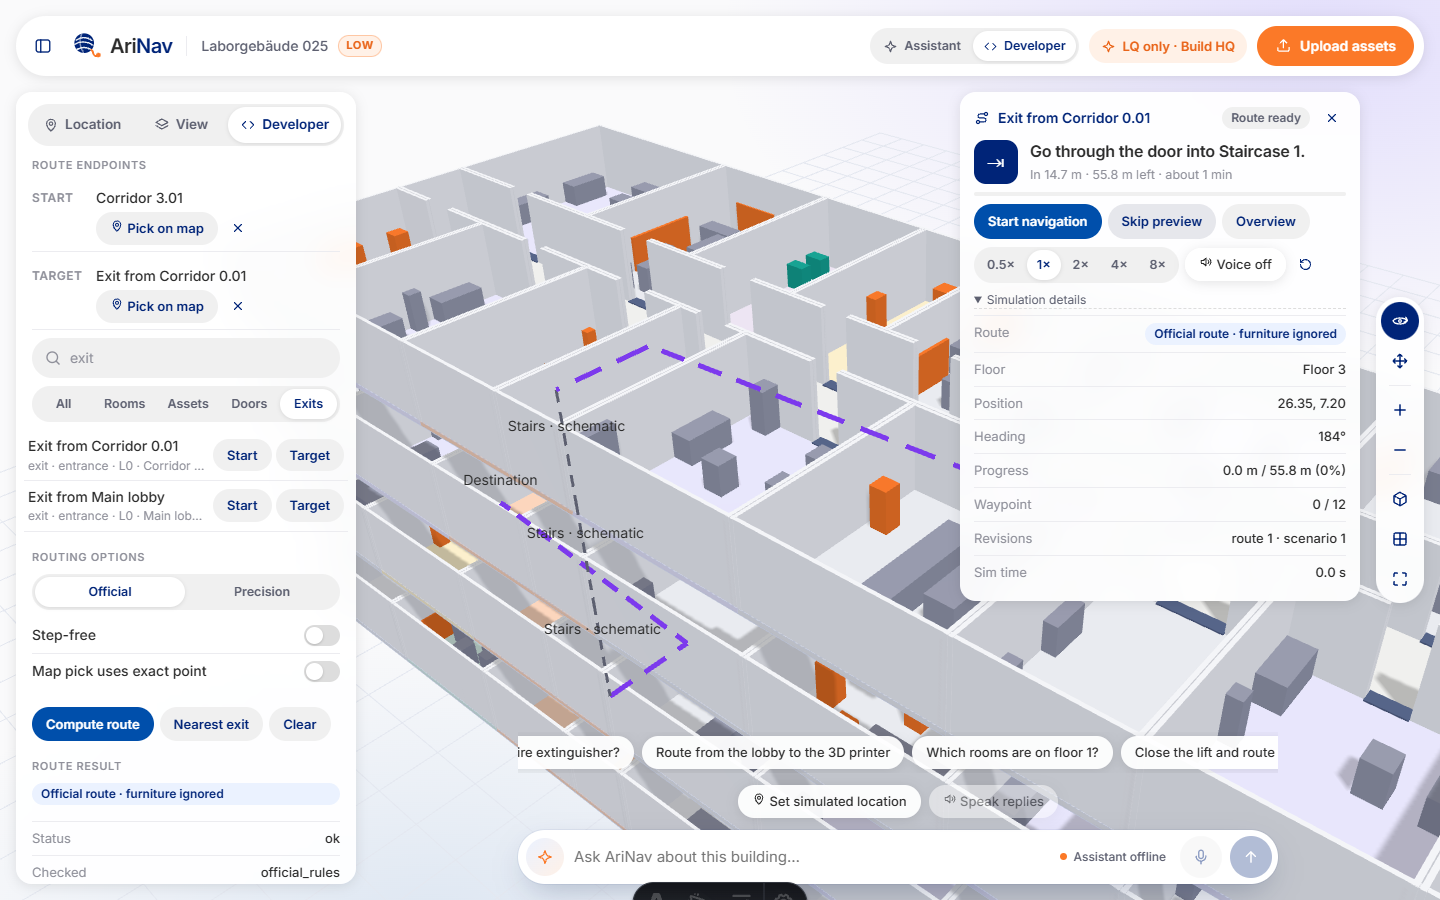
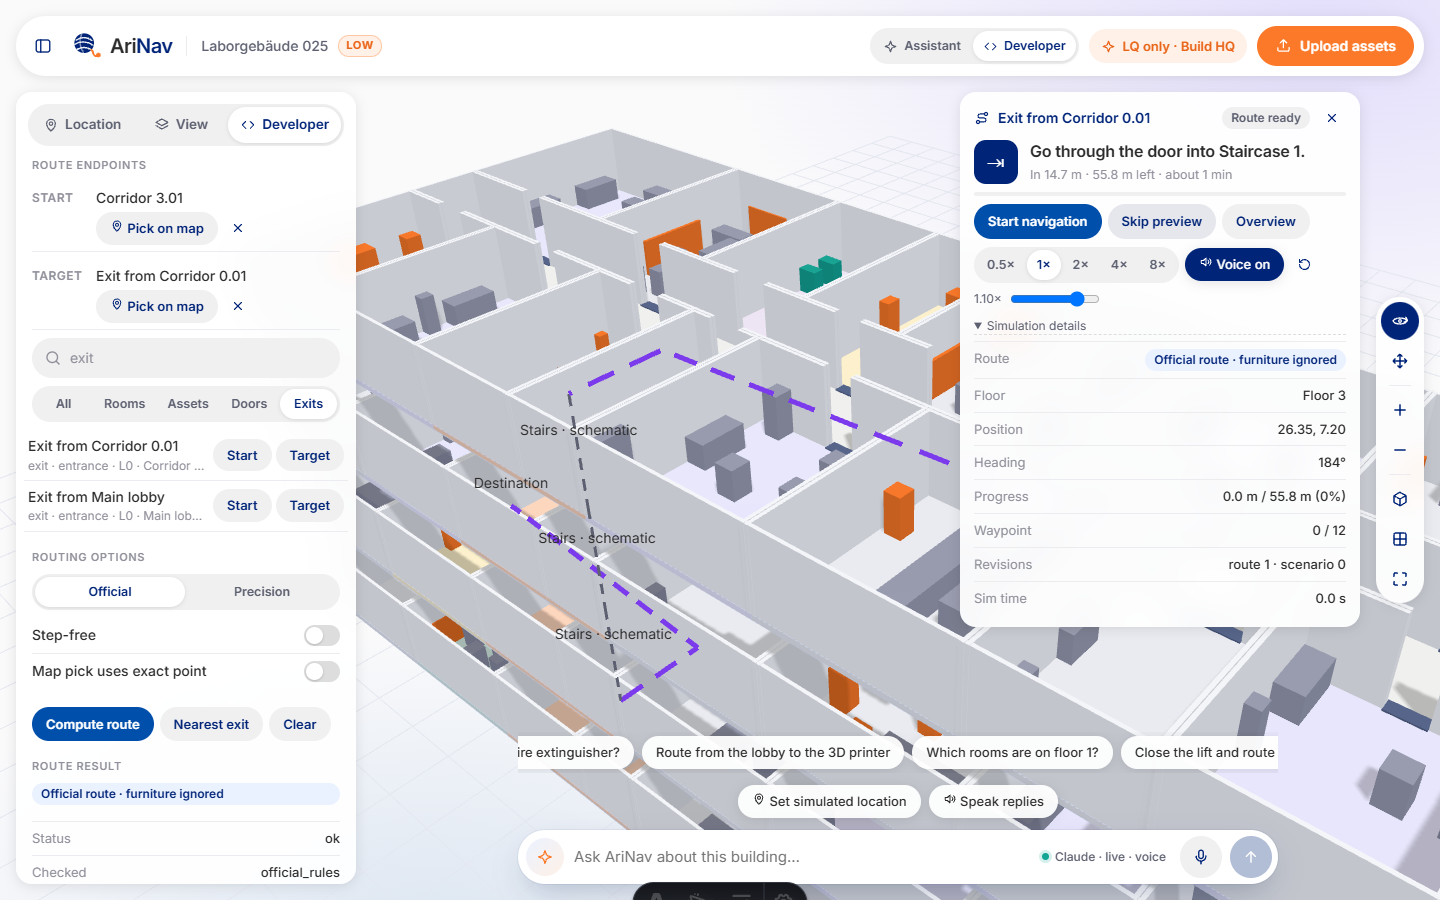
Phase B: walked-route overlay, hint priority, guide and final evidence
- scene: the part of the route already walked turns grey
- voice: floor changes, exit and arrival are not crowded out by later
  turn/door hints at high walking speed (priority); live check: stairs
  hint spoken, 7 hints at 1.1x, no overlap
- docs/PHASE_B_GUIDE.md: start, usage, what was built, tests, limits
- reports: kit 1.1.0 harness 655/655, 1338/1338, 553/553, 239/239;
  browser acceptance 14/14, Phase A browser suite 10/10

diff --git a/frontend/src/components/arinav/scene.ts b/frontend/src/components/arinav/scene.ts
@@ -83,6 +83,8 @@ export interface WalkerPose {
   floorId: string;
   position: Point;
   headingDeg: number;
+  /** Distance along the route (m): the part behind is drawn as done. */
+  distanceM?: number;
 }
 
 interface Preview {
@@ -201,6 +203,15 @@ export class BuildingScene {
   // Guidance: the walker figure, camera follow and a skippable route preview.
   private readonly walkerGroup = new THREE.Group();
   private walkerPose: WalkerPose | null = null;
+  private readonly doneGroup = new THREE.Group();
+  private doneDrawnAt = -1;
+  private readonly doneMat = new LineMaterial({
+    color: '#b8bcc8',
+    linewidth: 6,
+    depthTest: false,
+    transparent: true,
+    opacity: 0.95,
+  });
   private follow = false;
   private preview: Preview | null = null;
   private readonly routeMats = {
@@ -291,6 +302,7 @@ export class BuildingScene {
     this.scene.add(this.routeGroup);
     this.buildWalker();
     this.scene.add(this.walkerGroup);
+    this.scene.add(this.doneGroup);
 
     this.pin = makeLabel('', 'viewer__pin');
     this.pin.center.set(0.5, 1);
@@ -334,6 +346,8 @@ export class BuildingScene {
     this.clearRouteObjects();
     for (const m of Object.values(this.routeMats)) m.dispose();
     for (const m of Object.values(this.markerMats)) m.dispose();
+    this.clearDone();
+    this.doneMat.dispose();
     for (const m of [this.closedMat, this.diagnosisMat, this.highlightMat]) m.dispose();
     this.markerGeo.dispose();
     this.doorGeo.dispose();
@@ -412,6 +426,7 @@ export class BuildingScene {
 
   /** Draw a route (or clear it with null); `fit` flies the camera to it. */
   setRoute(route: RouteResponse | null, fit = false) {
+    this.clearDone();
     this.route = route;
     this.buildRoute();
     if (fit && route && this.routeGroup.children.length) {
@@ -433,7 +448,67 @@ export class BuildingScene {
       // Building frame is counter-clockwise from +x; toVec maps building +y to scene -z.
       this.walkerGroup.rotation.y = THREE.MathUtils.degToRad(pose.headingDeg);
     }
+    this.drawDone(pose?.distanceM ?? null);
     this.needsRender = true;
+  }
+
+  /** Grey out the part of the route already walked (rebuilt every half metre). */
+  private drawDone(distance: number | null) {
+    if (distance === null || !this.route?.waypoints?.length) {
+      if (this.doneDrawnAt !== -1) this.clearDone();
+      return;
+    }
+    if (this.doneDrawnAt >= 0 && Math.abs(distance - this.doneDrawnAt) < 0.5) return;
+    this.clearDone();
+    this.doneDrawnAt = distance;
+    const floorView = new Map(this.floors.map((fv) => [fv.floor.id, fv]));
+    const focus = this.settings.floor;
+    const y = (floorId: string) => {
+      const fv = floorView.get(floorId);
+      return (fv?.floor.elevation_m ?? 0) + this.floorOffset(fv) + ROUTE_LIFT + 0.02;
+    };
+    const wps = this.route.waypoints;
+    let run: THREE.Vector3[] = [];
+    let floor = wps[0].floor_id;
+    const flush = () => {
+      const fv = floorView.get(floor);
+      if (run.length >= 2 && fv && (focus === 'all' || fv.floor.level <= focus)) {
+        const geo = new LineGeometry();
+        geo.setPositions(run.flatMap((v) => [v.x, v.y, v.z]));
+        const line = new Line2(geo, this.doneMat);
+        line.renderOrder = 12;
+        line.raycast = () => {};
+        this.doneGroup.add(line);
+      }
+      run = [];
+    };
+    for (let i = 0; i < wps.length; i++) {
+      const w = wps[i];
+      if (w.floor_id !== floor) {
+        flush();
+        floor = w.floor_id;
+      }
+      if (w.distance_m <= distance) {
+        run.push(toVec(w.position, y(w.floor_id)));
+        continue;
+      }
+      const prev = wps[i - 1];
+      if (prev && prev.floor_id === w.floor_id && w.distance_m > prev.distance_m) {
+        const t = (distance - prev.distance_m) / (w.distance_m - prev.distance_m);
+        const a = toVec(prev.position, y(w.floor_id));
+        run.push(a.lerp(toVec(w.position, y(w.floor_id)), Math.max(0, Math.min(1, t))));
+      }
+      break;
+    }
+    flush();
+  }
+
+  private clearDone() {
+    for (const child of [...this.doneGroup.children]) {
+      (child as Line2).geometry.dispose();
+      this.doneGroup.remove(child);
+    }
+    this.doneDrawnAt = -1;
   }
 
   setFollow(on: boolean) {
@@ -1397,6 +1472,7 @@ export class BuildingScene {
     this.renderer.setSize(w, h);
     this.labelRenderer.setSize(w, h);
     for (const m of Object.values(this.routeMats)) m.resolution.set(w, h);
+    this.doneMat.resolution.set(w, h);
     this.needsRender = true;
   }
 

diff --git a/frontend/src/lib/guidanceVoice.ts b/frontend/src/lib/guidanceVoice.ts
@@ -46,6 +46,7 @@ export class GuidanceVoice {
   private readonly onChange?: (state: GuidanceVoiceState) => void;
   private current: AbortController | null = null;
   private pending: string | null = null;
+  private pendingPriority = 0;
   private suspended = false;
   private readonly keys = new Set<string>();
   private readonly cache = new Map<string, { pcm: string; rate: number }>();
@@ -73,15 +74,23 @@ export class GuidanceVoice {
    * becomes the single pending utterance (replacing an older pending one). Muted: remembered as
    * `last` (for repeat) but silent. Suspended: ignored entirely (the key is not consumed).
    */
-  say(key: string, text: string): void {
+  /**
+   * `priority`: a pending hint is replaced only by one of equal or higher priority, so a floor
+   * change or the arrival is not crowded out by a later turn or door hint at high speed.
+   */
+  say(key: string, text: string, priority = 0): void {
     const clean = text.trim();
     if (this.suspended || !clean || this.keys.has(key)) return;
     this.keys.add(key);
     if (this.keys.size > MAX_KEYS) this.keys.delete(this.keys.values().next().value as string);
     this.update({ last: clean });
     if (this.snapshot.muted) return;
-    if (this.current) this.pending = clean;
-    else this.start(clean);
+    if (this.current) {
+      if (this.pending === null || priority >= this.pendingPriority) {
+        this.pending = clean;
+        this.pendingPriority = priority;
+      }
+    } else this.start(clean);
   }
 
   /** Speaks the last text again right away (interrupting); does nothing when muted/suspended. */

diff --git a/frontend/src/components/arinav/useGuidance.ts b/frontend/src/components/arinav/useGuidance.ts
@@ -24,7 +24,7 @@ export interface PoseStore {
 }
 
 export interface GuidanceVoicePort {
-  say(key: string, text: string): void;
+  say(key: string, text: string, priority?: number): void;
   cancel(): void;
 }
 
@@ -116,7 +116,7 @@ export function useGuidance(args: {
       const p = snap.progress;
       pose.set(
         p && snap.status !== 'idle'
-          ? { floorId: p.floor_id, position: p.position, headingDeg: p.heading_deg }
+          ? { floorId: p.floor_id, position: p.position, headingDeg: p.heading_deg, distanceM: p.distance_m }
           : null,
       );
       const now = performance.now();
@@ -131,7 +131,11 @@ export function useGuidance(args: {
   const handle = useCallback(
     (events: SimEvent[]) => {
       for (const e of events) {
-        if (e.type === 'instruction') latest.current.voice?.say(e.key, e.instruction.text);
+        if (e.type === 'instruction') {
+          const k = e.instruction.kind;
+          const priority = k === 'arrive' ? 3 : k === 'stairs' || k === 'lift' || k === 'exit' ? 2 : 0;
+          latest.current.voice?.say(e.key, e.instruction.text, priority);
+        }
       }
       if (events.length) publish(true);
     },

diff --git a/frontend/src/lib/guidanceVoice.test.ts b/frontend/src/lib/guidanceVoice.test.ts
@@ -299,3 +299,29 @@ describe('GuidanceVoice', () => {
     expect(states[1]).toMatchObject({ speed: 1, muted: true });
   });
 });
+
+describe('GuidanceVoice priority', () => {
+  it('keeps a pending floor change when a lower-priority hint arrives later', async () => {
+    const said: string[] = [];
+    let finish: () => void = () => {};
+    const port = {
+      synthesize: async (text: string) => ({ pcm: text, rate: 16000 }),
+      play: (pcm: string) => {
+        said.push(pcm);
+        return new Promise<void>((r) => (finish = r));
+      },
+      stop: () => {},
+    };
+    const voice = new GuidanceVoice(port);
+    voice.say('1', 'Go through the door.');
+    await Promise.resolve();
+    await Promise.resolve();
+    voice.say('2', 'Take the stairs down to Ground floor.', 2);
+    voice.say('3', 'Turn left.', 0);
+    finish();
+    await new Promise((r) => setTimeout(r, 0));
+    await new Promise((r) => setTimeout(r, 0));
+    expect(said).toContain('Take the stairs down to Ground floor.');
+    expect(said).not.toContain('Turn left.');
+  });
+});

diff --git a/docs/PHASE_B_GUIDE.md b/docs/PHASE_B_GUIDE.md
@@ -1,0 +1,97 @@
+# AriNav Phase B — interactive 3D navigation
+
+Branch `noah/phase-b-navigation` (from team `main` 6884927). Not merged into `main`.
+
+## Start
+
+```powershell
+# offline (no AI, no voice): everything except chat and spoken hints
+powershell -File scripts/windows/Start-AriNav.ps1 -DatasetsDir <folder with building datasets>
+# live: Claude assistant + ElevenLabs voice (keys registered once with Register-ApiKey.ps1)
+powershell -File scripts/windows/Start-AriNav.ps1 -Live -DatasetsDir <folder>
+```
+
+Open http://localhost:4321 and pick a building under **Location → Building**. Docker/native start
+as in `README.md` also works (keys in `backend/.env`).
+
+## How to navigate
+
+1. **Find the destination** — ask the assistant ("I'm in Office 1.04, take me to the nearest exit")
+   or, in **Developer** mode, set start and target by search or map pick and press *Compute route*.
+2. **See the whole route** — it is drawn on the 3D map (start, destination, doors, stairs/lifts;
+   floor changes without real 3D geometry are labelled *schematic*). The navigation card (top
+   right) shows the destination and the next instruction.
+3. Optional: **Preview route** flies the camera along the route; your position does not change.
+   *Skip preview* stops it at any time.
+4. **Start navigation** — a person walks along the backend's waypoints. Controls: *Pause*,
+   *Resume*, *Stop*, *Overview* (whole building), *Recenter* (follow the person), walking speed
+   0.5×–8×. The floor the person is on is focused automatically; the walked part of the route turns
+   grey.
+5. **Arrive** — the person stops at the actual target point (an exit route ends at the exit door).
+
+**Voice:** short hints at doors, turns, floor changes and arrival (ElevenLabs, default 1.10×).
+*Voice on/off*, *Repeat* and a speed slider are on the card. Hints never overlap; floor changes and
+arrival are not crowded out at high speed; route changes cancel stale audio; push-to-talk stops all
+playback first. If voice fails, navigation continues and the card says so.
+
+**Closures while walking:** when the shared scenario changes (a confirmed closure, the developer
+panel, another tab, the team's navgraph agent), the person stops, the route is recomputed from the
+exact current position and walking continues only with a valid route. If nothing is reachable the
+person stays put and the card explains why (names, no ids). The scenario is polled every 2 s while
+navigating.
+
+**User vs. developer view:** both show the same simulation (same position and scenario). The
+developer view adds floor, position, heading, progress, waypoint, route/scenario revisions and
+simulation time.
+
+**HQ models:** opening a building never starts the paid pipeline (Developer → *HQ model* →
+auto-build is off by default). A model stored under the building id
+(`backend/data/workspace/locations/<building_id>/3d/model.glb`, gitignored) loads directly; the
+*LQ only · Build HQ* chip or *Rebuild* regenerate it on request. Scenario changes never regenerate
+the model; closures are painted on it.
+
+## What was built
+
+| Part | Where |
+|---|---|
+| Instructions + deterministic walker (`GuidanceSim`: position = route at integrated sim time) | `frontend/src/lib/simulation.ts` |
+| Guidance hook (animation loop, pose store, reroute with stale-answer guard, dev test clock) | `frontend/src/components/arinav/useGuidance.ts` |
+| Navigation card (user/developer view) | `GuidancePanel.tsx`, styles in `arinav-phase-a.css` |
+| Walker figure, follow camera, overview, route preview, walked-route overlay | `scene.ts`, `Viewer3D.tsx` |
+| Spoken hints (queue, priority, mute, repeat, cache) + `POST /api/assistant/speak` | `lib/guidanceVoice.ts`, `lib/voice.ts`, `backend/app/api/routes/assistant.py` |
+| Reroute from the exact position (`exact_start`, official routes only, opt-in) | `backend/app/navigation/service.py` |
+| HQ model loaded from storage without a run record | `usePipeline.ts` |
+
+Phase A fixes (B0) for the QA findings D1–D3, N01–N03, U1, U2 are in commit a5de921.
+
+## Tests (25.10.2026, this branch)
+
+| What | Result |
+|---|---|
+| Backend `uv run pytest` | 349 passed, 4 skipped |
+| Kit 1.1.0 harness `scripts/nav_benchmark.py` | see `docs/reports/nav_benchmark_1_1_0.md` (655/655, 1338/1338, 553/553, 239/239) |
+| Frontend `npm test` / `npm run lint` / build | 72 tests, 0 errors |
+| QA scripts of the independent review, rerun on this code | dialog audit 20/20, N01–N03 repros fixed |
+| Browser acceptance `scripts/e2e/guidance_e2e.mjs` (controlled sim clock) | 14/14 → `docs/reports/browser-b/guidance_e2e.json` |
+| Phase A browser suite `scripts/e2e/browser_e2e.mjs` | 10/10 |
+| Live: assistant → route → navigation → ElevenLabs hints | arrived at the exit door; 7 hints at 1.1×, no overlap, no errors |
+
+The browser checks cover: preview keeps the position; route/endpoints equal the backend's; exit
+routes end at the exit door; the precision walker never leaves the checked polyline; pause/resume
+without jumps; closures reroute from the exact position; no route stops the walker; floor order;
+official vs. precision stay distinguishable; audio failures do not block; missing HQ does not block;
+user and developer view show the same position; two sessions keep separate positions; a cached HQ
+model loads without a pipeline start. Stale async answers are covered by `useGuidance.test.ts`.
+
+## Limits
+
+- The walker follows route waypoints at constant speed; vertical moves take their official cost
+  equivalent (a lift ride counts 15 m + height). No real indoor positioning yet.
+- Official routes ignore furniture by kit rule; only precision routes are obstacle-checked.
+- `exact_start` re-walks only the first leg inside the current room; the reported official cost
+  remains the kit's value from the room.
+- The HQ model is baked: navgraph asset edits update the LQ model and all routers, the HQ GLB keeps
+  the old furniture until *Rebuild*.
+- The team pipeline still skips an explicitly started run whose raw input is unchanged (SHA-256);
+  opening and loading never hash.
+- Real microphone test by a person is still open.

diff --git a/README.md b/README.md
@@ -87,7 +87,7 @@ The frontend is **AriNav** (after Ariadne and her thread), one React island on `
 - **Location** (left panel): building picker, floor focus (higher floors hidden, lower ones ghosted), search over rooms and assets, room list.
 - **View** (left panel): camera presets, layer toggles, explode floors, wall height, room colours, shadows, grid.
 - **Chat** (bottom): in *Assistant* mode the Claude building assistant with push-to-talk voice (`/api/assistant`, routes drawn on the map, changes only after *Confirm*); without the assistant API it talks to the agent via `POST /api/chat` `{ message, thread_id? }` (one-node LangGraph agent with per-thread memory, returns `{ reply, thread_id }`).
-- **Assistant / Developer** (top bar): *Developer* adds manual routing (official kit 1.1.0 or precision), nearest exit, scenario closures and the kit examples — usable without any AI key. Details, start script and tests: [`docs/PHASE_A_INTEGRATION.md`](docs/PHASE_A_INTEGRATION.md).
+- **Assistant / Developer** (top bar): *Developer* adds manual routing (official kit 1.1.0 or precision), nearest exit, scenario closures and the kit examples — usable without any AI key. Details, start script and tests: [`docs/PHASE_A_INTEGRATION.md`](docs/PHASE_A_INTEGRATION.md). Live 3D navigation (virtual walker, spoken hints, rerouting): [`docs/PHASE_B_GUIDE.md`](docs/PHASE_B_GUIDE.md).
 - **Upload assets** (top right): creates a new location. You name it first (checked live, case-insensitively, against existing datasets), then add files; the backend stores them in `DATASETS_DIR/<dataset>/`, and a `building.json` is ingested and opened right away.
 - **Two qualities** (tag next to the building name): every building first shows the **Low** preview generated in the browser. The [ingestion pipeline](#agentic-ingestion-pipeline) runs in the background when started from the *LQ only · Build HQ* chip; with *Developer → HQ model → Auto-build* switched on (off by default, because a build calls Claude when a key is set) it also starts on every upload and on opening a dataset that was never processed (a failed run is not restarted on its own). Once it has published a model, the view switches to **HQ**: the pipeline's `model.glb` with the cleaned `building.json` and room descriptions, still clickable and filterable by floor. The *3D source* toggle switches between HQ and the preview.
 - **Processing** (chip in the top bar): stage progress of the run. When the pipeline asks for a review, a dialog opens with the issues, plan previews and a note field, and answers with *Accept with warnings*, *Retry stage* or *Abort run*. Failed runs can be retried and finished ones rebuilt from the same dialog.

diff --git a/docs/reports/nav_benchmark_1_1_0.md b/docs/reports/nav_benchmark_1_1_0.md
@@ -1,6 +1,6 @@
 # Navigation benchmark vs kit 1.1.0 answers
 
-`app.navigation.NavigationService` (backend), kit 1.1.0 (commit `dc03c447dbe5b2e5f82c7db0d72249931817d86d`); buildings from the kit ZIP via an in-memory BuildingRepository, questions from the verified kit checkout. Offline, deterministic, no model calls. Runtime 121.0 s (benchmark 78.5 s, routes 39.5 s, locate 2.1 s, count 0.8 s). Splits: train, dev. Sections: benchmark, routes, locate, count.
+`app.navigation.NavigationService` (backend), kit 1.1.0 (commit `dc03c447dbe5b2e5f82c7db0d72249931817d86d`); buildings from the kit ZIP via an in-memory BuildingRepository, questions from the verified kit checkout. Offline, deterministic, no model calls. Runtime 116.6 s (benchmark 80.3 s, routes 33.5 s, locate 2.0 s, count 0.8 s). Splits: train, dev. Sections: benchmark, routes, locate, count.
 
 | Section | Correct | Prototype reference |
 |---|---|---|

diff --git a/docs/PHASE_B_CONTRACT.md b/docs/PHASE_B_CONTRACT.md
@@ -1,8 +1,9 @@
 # Phase B starting point — guidance data contract
 
-Phase B (live guidance along a route: following the user, re-routing, arrival; later camera and
-HQ animation) builds on data that Phase A already delivers. Nothing in Phase A animates, moves a
-camera or simulates walking. This file fixes what Phase B can rely on.
+Phase B (live guidance along a route: following the user, re-routing, arrival) builds on data that
+Phase A delivers. **Implemented on branch `noah/phase-b-navigation`**: see `docs/PHASE_B_GUIDE.md`
+(the walker is `GuidanceSim` in `frontend/src/lib/simulation.ts`, driven by `useGuidance`).
+This file fixes the data the guidance relies on.
 
 Code: `frontend/src/lib/guidance.ts` (types + `progressAt`, tested in `guidance.test.ts`);
 backend source of every field: `backend/app/navigation/response.py` (`official_response`,
